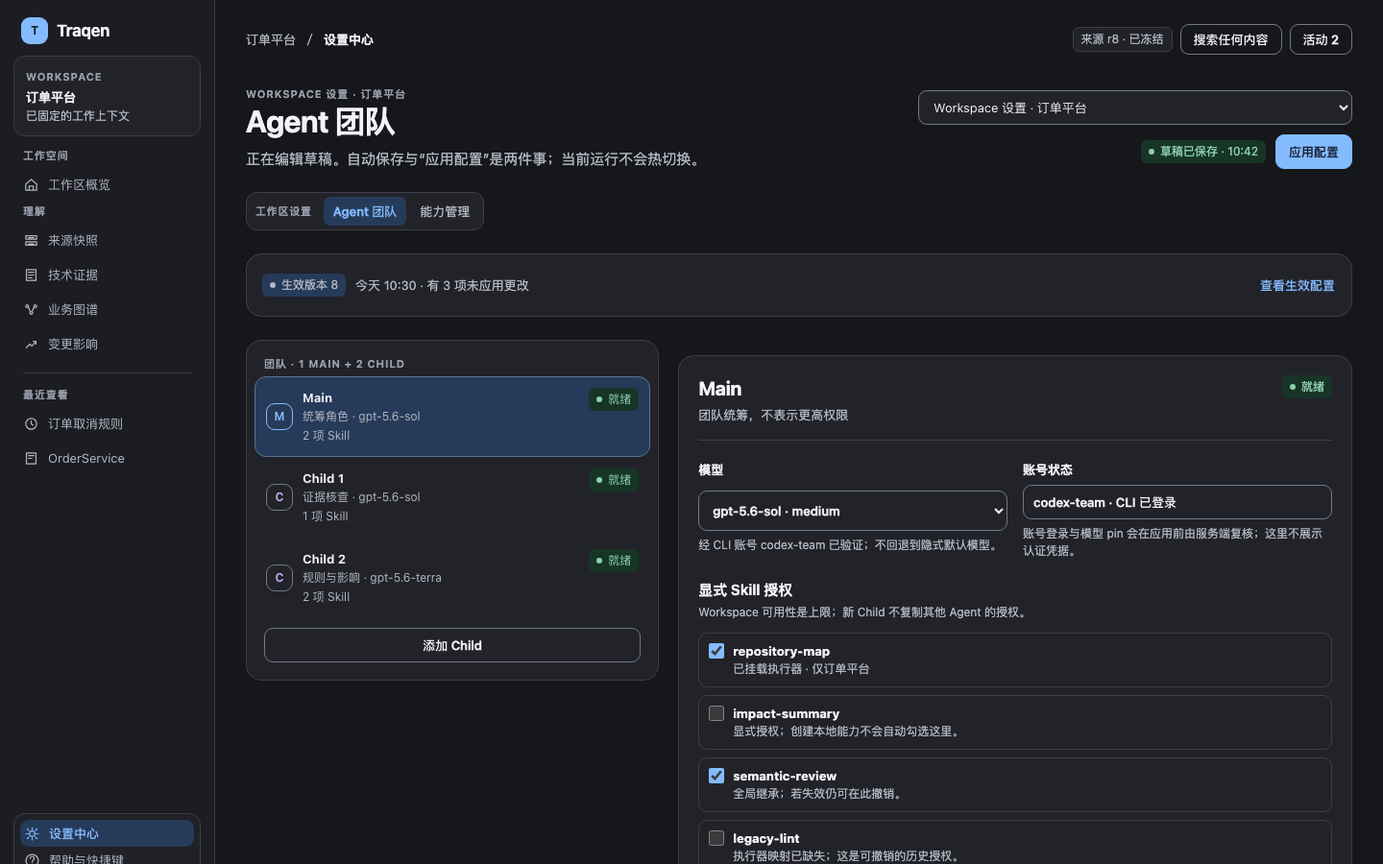
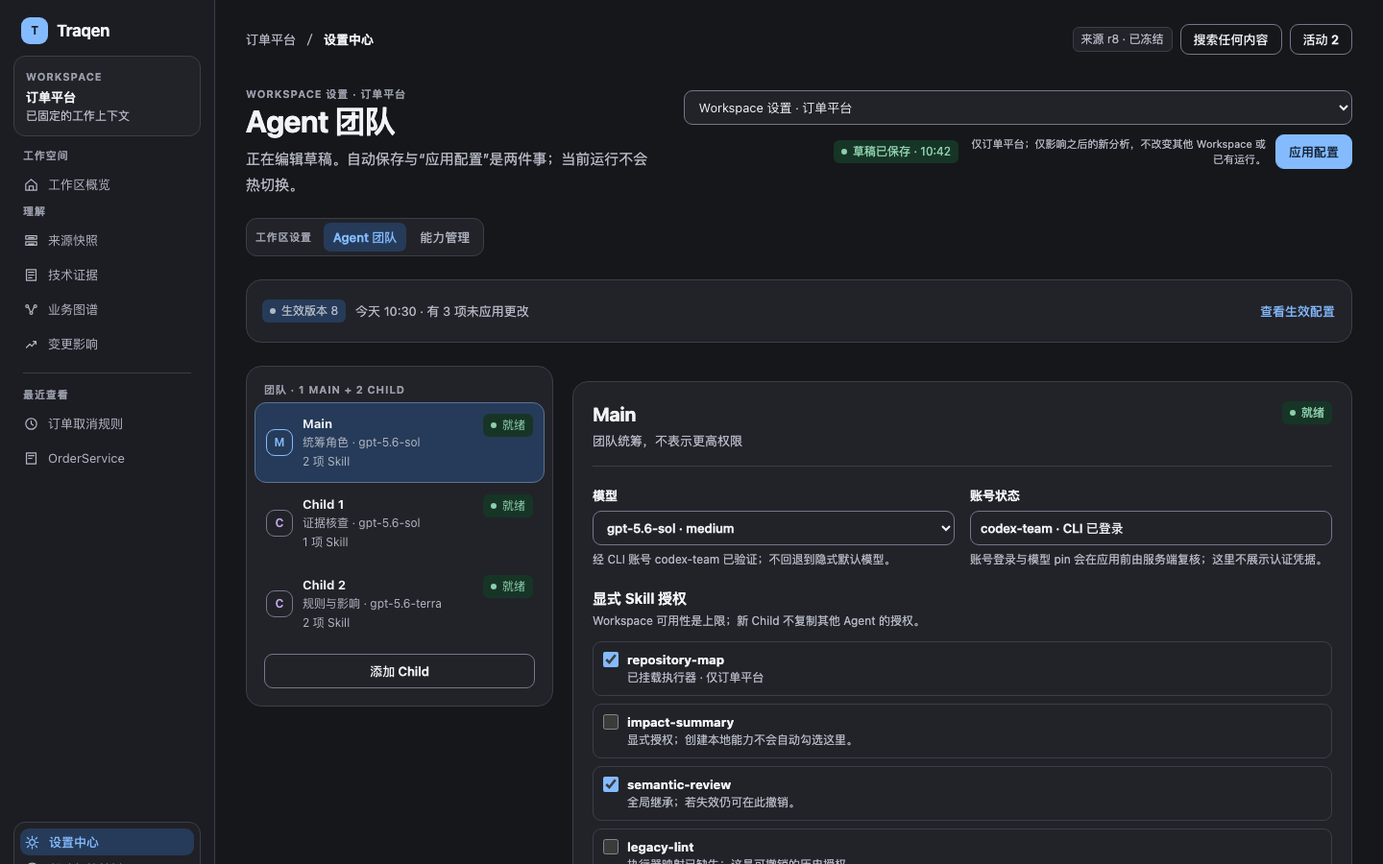
fix(f006): make desktop fixture states reachable
Why: align the review prototype with the documented team geometry, recovery, read-only-version return, and vertical reachability contracts.

diff --git a/docs/design/F006-workspace-capability-settings/ux-v1.0/assets/prototype.html b/docs/design/F006-workspace-capability-settings/ux-v1.0/assets/prototype.html
@@ -29,7 +29,7 @@
     button { cursor: pointer; }
     button:disabled { cursor: not-allowed; opacity: .54; }
     :focus-visible { outline: 3px solid var(--focus); outline-offset: 3px; }
-    #logical-stage { width: 1440px; height: 900px; margin: 0 auto; overflow: hidden; position: relative; }
+    #logical-stage { width: 1440px; min-height: 900px; height: auto; margin: 0 auto; overflow: visible; position: relative; }
     .shell { width: 1440px; min-height: 900px; display: grid; grid-template-columns: var(--sidebar) minmax(0, 1fr); transform: scale(var(--desktop-scale)); transform-origin: top left; }
     #logical-stage[data-layout-mode="accessibility"] { width: 100%; height: auto; overflow: visible; }
     #logical-stage[data-layout-mode="accessibility"] .shell { width: 100%; min-height: 100vh; transform: none; }
@@ -68,6 +68,8 @@
     .summary-row { margin-top: 24px; padding: 14px 16px; display: flex; justify-content: space-between; align-items: center; gap: 18px; border: 1px solid var(--line); border-radius: 16px; background: var(--surface); }
     .summary-row .summary-copy { display: flex; align-items: center; gap: 10px; min-width: 0; } .summary-row .summary-copy span { color: var(--muted); }
     .scope-select { min-height: 36px; border: 1px solid var(--control); border-radius: 9px; padding: 0 29px 0 11px; background: var(--surface); color: var(--text); }
+    .apply-context { display: inline-flex; align-items: center; gap: 10px; max-width: 430px; }
+    .apply-scope { max-width: 310px; color: var(--muted); font-size: 11px; line-height: 16px; text-align: right; }
     .settings-secondary { margin-top: 21px; display: flex; align-items: center; gap: 4px; padding: 4px; width: fit-content; border: 1px solid var(--line); border-radius: 11px; background: var(--surface); }
     .settings-secondary span { padding: 0 8px 0 5px; color: var(--meta); font-size: 11px; font-weight: 650; letter-spacing: .07em; text-transform: uppercase; }
     .settings-secondary button { min-height: 30px; padding: 0 10px; border: 0; border-radius: 7px; background: transparent; color: var(--muted); font-weight: 550; }
@@ -75,9 +77,9 @@
     .content { margin-top: 24px; }
     .panel { border: 1px solid var(--line); border-radius: 16px; background: var(--surface); } .panel.pad { padding: 20px; } .panel + .panel { margin-top: 16px; }
     .section-head { display: flex; align-items: center; justify-content: space-between; gap: 16px; margin-bottom: 16px; } .section-head > p { color: var(--muted); }
-    .notice { display: flex; gap: 10px; align-items: flex-start; padding: 12px 14px; border-radius: 9px; color: var(--warning); background: var(--warning-soft); } .notice strong { color: var(--text); } .notice.danger { color: var(--danger); background: var(--danger-soft); }
+    .notice { display: flex; gap: 10px; align-items: flex-start; padding: 12px 14px; border-radius: 9px; color: var(--warning); background: var(--warning-soft); } .notice strong { color: var(--text); } .notice.danger { color: var(--danger); background: var(--danger-soft); } .notice.success { color: var(--success); background: var(--success-soft); }
     .notice .dot { width: 8px; height: 8px; border-radius: 50%; flex: none; margin-top: 6px; background: currentColor; }
-    .team-grid { display: grid; grid-template-columns: minmax(286px, .76fr) minmax(0, 1.24fr); gap: 20px; align-items: start; }
+    .team-grid { display: grid; grid-template-columns: 320px minmax(0, 1fr); gap: 20px; align-items: start; }
     .agent-list { padding: 8px; } .agent-section-title { padding: 8px 10px 5px; color: var(--meta); font-size: 11px; line-height: 16px; font-weight: 650; letter-spacing: .08em; text-transform: uppercase; }
     .agent-card { width: 100%; min-height: 72px; padding: 11px; display: grid; grid-template-columns: 28px minmax(0,1fr) auto; gap: 10px; align-items: center; text-align: left; border: 1px solid transparent; border-radius: 12px; background: transparent; color: var(--text); } .agent-card:hover { background: var(--surface-2); } .agent-card.selected { border-color: color-mix(in srgb, var(--blue) 42%, var(--line)); background: var(--blue-soft); }
     .agent-icon { width: 28px; height: 28px; border: 1px solid var(--control); border-radius: 9px; display: grid; place-items: center; color: var(--purple); font-size: 12px; font-weight: 700; } .agent-card.selected .agent-icon { color: var(--blue); border-color: var(--blue); }
@@ -138,7 +140,7 @@
         empty: 'S01 · 范围与初始空态', accounts: 'S02 · 账号', models: 'S03 · 模型', skills: 'S03 · Skill', team: 'S04 · 完整团队', capabilities: 'S05 · 能力管理', conflict: 'S06 · 草稿冲突', lifecycle: 'S07 · 生命周期影响', mcp: 'S08 · MCP 暂停', versions: 'S09 · 生效版本', f003: 'S10 · F003 配置确认示意'
       };
       const saved = JSON.parse(localStorage.getItem('traqen-f006-ux-state') || '{}');
-      const state = { scene: 'team', theme: localStorage.getItem('traqen-f006-ux-theme') || 'light', selected: saved.selected || 'main', child2Model: saved.child2Model || 'gpt-5.6-terra', conflict: Boolean(saved.conflict), legacyIssue: Boolean(saved.legacyIssue), m3: saved.m3 || '', logs: [], sentinels: { mainModel: 'gpt-5.6-sol', otherWorkspace: 'billing-workspace-unchanged' } };
+      const state = { scene: 'team', theme: localStorage.getItem('traqen-f006-ux-theme') || 'light', selected: saved.selected || 'main', child2Model: saved.child2Model || 'gpt-5.6-terra', conflict: Boolean(saved.conflict), legacyIssue: Boolean(saved.legacyIssue), m3: saved.m3 || '', recovery: saved.recovery || '', logs: [], sentinels: { mainModel: 'gpt-5.6-sol', otherWorkspace: 'billing-workspace-unchanged' } };
       const agentConfigs = Object.freeze({
         main: { name: 'Main', role: '统筹角色', model: 'gpt-5.6-sol', skills: ['repository-map', 'semantic-review'], readiness: '就绪' },
         'child-1': { name: 'Child 1', role: '证据核查', model: 'gpt-5.6-sol', skills: ['repository-map'], readiness: '就绪' },
@@ -146,10 +148,11 @@
       });
       const $ = (selector, root=document) => root.querySelector(selector);
       const esc = value => String(value).replace(/[&<>"]/g, c => ({'&':'&amp;','<':'&lt;','>':'&gt;','"':'&quot;'}[c]));
-      function persist() { localStorage.setItem('traqen-f006-ux-state', JSON.stringify({ selected: state.selected, child2Model: state.child2Model, conflict: state.conflict, legacyIssue: state.legacyIssue, m3: state.m3 })); }
+      function persist() { localStorage.setItem('traqen-f006-ux-state', JSON.stringify({ selected: state.selected, child2Model: state.child2Model, conflict: state.conflict, legacyIssue: state.legacyIssue, m3: state.m3, recovery: state.recovery })); }
       function log(type, detail, write=false) { state.logs.push({ type, detail, write }); updateLog(); }
       function updateLog() { const writes = state.logs.filter(x => x.write).length; $('#fixture-log').textContent = `模拟写入证据：${writes} 次业务写入 · ${state.logs.slice(-1)[0]?.detail || '取消/主题切换均为零业务写入'}`; }
-      function applyDesktopScale() { const stage = $('#logical-stage'); const isDesktop = innerWidth >= 1440 && innerHeight >= 900; const scale = isDesktop ? Math.min(innerWidth / 1440, innerHeight / 900) : 1; stage.dataset.layoutMode = isDesktop ? 'desktop' : 'accessibility'; stage.style.width = isDesktop ? `${1440 * scale}px` : '100%'; stage.style.height = isDesktop ? `${900 * scale}px` : 'auto'; document.documentElement.style.setProperty('--desktop-scale', String(scale)); state.desktopLayout = { canvas: { width: 1440, height: 900 }, viewport: { width: innerWidth, height: innerHeight }, scale, mode: isDesktop ? 'desktop' : 'accessibility', margin: isDesktop ? { x: (innerWidth - 1440 * scale) / 2, y: 0 } : { x: 0, y: 0 }, browserZoom: visualViewport?.scale || 1, deviceScaleFactor: devicePixelRatio }; }
+      function applyDesktopScale() { const stage = $('#logical-stage'); const isDesktop = innerWidth >= 1440 && innerHeight >= 900; const scale = isDesktop ? Math.min(innerWidth / 1440, innerHeight / 900) : 1; stage.dataset.layoutMode = isDesktop ? 'desktop' : 'accessibility'; stage.style.width = isDesktop ? `${1440 * scale}px` : '100%'; stage.style.height = 'auto'; document.documentElement.style.setProperty('--desktop-scale', String(scale)); state.desktopLayout = { canvas: { width: 1440, height: 900 }, viewport: { width: innerWidth, height: innerHeight }, scale, mode: isDesktop ? 'desktop' : 'accessibility', margin: isDesktop ? { x: (innerWidth - 1440 * scale) / 2, y: 0 } : { x: 0, y: 0 }, browserZoom: visualViewport?.scale || 1, deviceScaleFactor: devicePixelRatio }; }
+      function syncDesktopStageHeight() { const stage = $('#logical-stage'); const shell = $('.shell'); if (state.desktopLayout.mode !== 'desktop') { stage.style.height = 'auto'; return; } stage.style.height = `${Math.ceil(shell.scrollHeight * state.desktopLayout.scale)}px`; }
       function applyTheme(theme) { state.theme = theme; localStorage.setItem('traqen-f006-ux-theme', theme); document.documentElement.dataset.theme = theme; document.querySelectorAll('[data-theme-choice]').forEach(button => button.setAttribute('aria-pressed', String(button.dataset.themeChoice === theme))); log('presentation', `切换至${theme === 'light' ? '瓷白' : '石墨'}主题`, false); }
       function head(kicker, title, description, action='') { return `<header class="page-head"><div><p class="eyebrow">${kicker}</p><h1>${title}</h1><p>${description}</p></div><div class="head-actions">${action}</div></header>`; }
       function pill(kind, text) { return `<span class="badge ${kind}">${text}</span>`; }
@@ -159,17 +162,18 @@
       function workspaceSettingsNav(active) { return `<nav class="settings-secondary" data-testid="workspace-settings-nav" aria-label="Workspace 设置导航"><span>工作区设置</span><button type="button" class="${active === 'team' ? 'active':''}" data-scene="team" ${active === 'team' ? 'aria-current="page"':''}>Agent 团队</button><button type="button" class="${active === 'capabilities' ? 'active':''}" data-scene="capabilities" ${active === 'capabilities' ? 'aria-current="page"':''}>能力管理</button></nav>`; }
       function teamCards() { return `<section class="panel agent-list"><div class="agent-section-title">团队 · 1 Main + 2 Child</div>${Object.entries(agentConfigs).map(([id, base]) => { const agent = agentConfig(id); const kind = agent.readiness === '就绪' ? 'success' : 'warning'; return `<button class="agent-card ${state.selected === id ? 'selected':''}" data-agent="${id}" data-skill-count="${agent.skills.length}" ${id === 'child-2' ? 'data-testid="agent-child-2"':''}><span class="agent-icon">${id === 'main'?'M':'C'}</span><span><b>${agent.name}</b><small>${agent.role} · ${agent.model}</small><small>${agent.skills.length} 项 Skill</small></span>${pill(kind, agent.readiness)}</button>`; }).join('')}<button class="btn" style="margin:10px;width:calc(100% - 20px)">添加 Child</button></section>`; }
       function inspector() { const agent = agentConfig(); const isChild2 = state.selected === 'child-2'; const hasLegacyIssue = state.selected === 'child-1' && state.legacyIssue; const skillDescription = { 'repository-map': ['已挂载执行器 · 仅订单平台', 'Workspace 可用性是上限，不会自动配给其他 Agent。'], 'impact-summary': ['显式授权；创建本地能力不会自动勾选这里。', '本地能力可用不等于任何 Agent 已获授权。'], 'semantic-review': ['全局继承；若失效仍可在此撤销。', '生命周期变更会在这里标记为需要处理。'], 'legacy-lint': ['执行器映射已缺失；这是可撤销的历史授权。', '撤销只会修改 Child 1 的草稿授权。'] }; return `<section class="panel detail" aria-label="${agent.name} 配置详情"><div class="detail-head"><div><h2>${agent.name}</h2><p>${isChild2 ? '规则与影响的并行分析角色' : state.selected === 'main' ? '团队统筹，不表示更高权限' : '证据核查的并行分析角色'}</p></div>${pill(agent.readiness === '就绪' ? 'success':'warning', agent.readiness)}</div>${hasLegacyIssue ? `<div class="notice danger" data-testid="legacy-authorization" style="margin-top:16px"><span class="dot"></span><div><strong>legacy-lint 授权需要处理</strong><br>该执行器映射已不可用；历史授权仍在 Child 1 草稿中，必须在此明确撤销或替换。</div><button class="btn danger" id="revoke-legacy" style="margin-left:auto">撤销授权</button></div>` : ''}<div class="fields"><label>模型 <select id="agent-model" data-testid="agent-model"><option ${agent.model === 'gpt-5.6-sol'?'selected':''}>gpt-5.6-sol · medium</option><option ${agent.model === 'gpt-5.6-terra'?'selected':''}>gpt-5.6-terra · high</option></select><span>经 CLI 账号 codex-team 已验证；不回退到隐式默认模型。</span></label><label>账号状态 <input value="codex-team · CLI 已登录" readonly><span>账号登录与模型 pin 会在应用前由服务端复核；这里不展示认证凭据。</span></label></div><div class="grant-block"><h3>显式 Skill 授权</h3><p>Workspace 可用性是上限；新 Child 不复制其他 Agent 的授权。</p><div class="grant-list">${['repository-map','impact-summary','semantic-review','legacy-lint'].map(skill => `<label class="check-row"><input type="checkbox" ${agent.skills.includes(skill) ? 'checked':''}><span><b>${skill}</b><br>${skillDescription[skill][0]}</span></label>`).join('')}</div></div></section>`; }
-      function team() { return `${head('Workspace 设置 · 订单平台', 'Agent 团队', '正在编辑草稿。自动保存与“应用配置”是两件事；当前运行不会热切换。', `${scope()}${pill('success','草稿已保存 · 10:42').replace('class="badge success"', 'class="badge success" data-testid="draft-saved"')}<button class="btn primary" id="apply" data-testid="apply-config">应用配置</button>`)}${workspaceSettingsNav('team')}<div class="summary-row"><div class="summary-copy">${pill('blue','生效版本 8')}<span>今天 10:30 · 有 3 项未应用更改</span></div><button class="btn link">查看生效配置</button></div><section class="content team-grid">${teamCards()}${inspector()}</section>`; }
+      function recoveryNotice() { if (!state.recovery) return ''; const server = state.recovery === 'server'; return `<div class="notice success" data-testid="recovery-success" style="margin-top:16px"><span class="dot"></span><div><strong>${server ? '已采用服务器草稿，可以继续编辑并应用' : '草稿已恢复，可以继续编辑并应用'}</strong><br>${server ? '未保存的本地 M3 说明已按你的选择丢弃；没有新增业务写入。' : 'M2 已确认，M3 已恰好补存一次；当前运行和已生效版本未改变。'}</div></div>`; }
+      function team() { return `${head('Workspace 设置 · 订单平台', 'Agent 团队', '正在编辑草稿。自动保存与“应用配置”是两件事；当前运行不会热切换。', `${scope()}${pill('success','草稿已保存 · 10:42').replace('class="badge success"', 'class="badge success" data-testid="draft-saved"')}<span class="apply-context"><span class="apply-scope" data-testid="apply-scope">仅订单平台；仅影响之后的新分析，不改变其他 Workspace 或已有运行。</span><button class="btn primary" id="apply" data-testid="apply-config">应用配置</button></span>`)}${workspaceSettingsNav('team')}${recoveryNotice()}<div class="summary-row"><div class="summary-copy">${pill('blue','生效版本 8')}<span>今天 10:30 · 有 3 项未应用更改</span></div><button class="btn link" data-scene="versions" data-testid="versions-entry">查看生效配置</button></div><section class="content team-grid">${teamCards()}${inspector()}</section>`; }
       function empty() { const placeholder = (id, name, role, detail) => `<button class="agent-card ${id === 'main' ? 'selected':''}" data-testid="empty-${id}"><span class="agent-icon">${id === 'main'?'M':'C'}</span><span><b>${name}</b><small>${role}</small><small>尚未选择模型 · 0 项 Skill</small></span>${pill('warning','需要配置')}</button>`; return `${head('Workspace 设置 · 订单平台', 'Agent 团队', '先在实际团队配置中为 Main 与至少一个 Child 选择模型；不会静默填入默认值。', `${scope()}${pill('warning','不能应用配置')}`)}${workspaceSettingsNav('team')}<div class="summary-row"><div class="summary-copy">${pill('blue','草稿已保存')}<span>初始草稿 · 尚未创建可运行版本</span></div><button class="btn link" data-scene="models">前往模型</button></div><section class="content team-grid"><section class="panel agent-list"><div class="agent-section-title">团队 · 1 Main + 1 Child（最小结构）</div>${placeholder('main','Main','统筹角色','')} ${placeholder('child-1','Child 1','证据核查','')}<button class="btn" style="margin:10px;width:calc(100% - 20px)">添加 Child</button></section><section class="panel detail" aria-label="初始 Agent 配置"><div class="detail-head"><div><h2>Main 尚未完成配置</h2><p>从实际账号与模型中选择；Child 的授权不会由 Main 自动复制。</p></div>${pill('warning','需要模型')}</div><div class="fields"><label>模型 <select disabled><option>先在模型页添加并验证</option></select><span>未选择模型，不会回退到隐式默认值。</span></label><label>账号状态 <input value="尚未选择账号" readonly><span>保存引用与 CLI 检查分开。</span></label></div><div class="grant-block"><h3>显式 Skill 授权</h3><p>等待模型配置完成后再逐项选择；当前为 0 项。</p></div><div class="notice" style="margin-top:20px"><span class="dot"></span><div><strong>应用配置仍不可用</strong><br>先完成 Main 和至少一个 Child 的模型配置。草稿可以保存，但不会创建运行。</div></div></section></section>`; }
       function accounts() { return `${head('全局设置', '账号', '保存的是认证引用与 CLI 状态摘要；不显示密钥，也不在 Traqen 内发起 OAuth 登录。', scope('global'))}${globalSettingsNav('accounts')}<section class="content form-grid"><div class="panel pad"><div class="section-head"><h2>添加 API Key 引用</h2>${pill('blue','全局资产')}</div><div class="form-stack"><label>账号名称 <input value="OpenAI 团队账号"></label><label>Secret 引用 <input value="env://OPENAI_API_KEY" aria-invalid="true"><span class="error-text">未发现该环境变量；引用已保留，未显示密钥值。</span></label><p class="field-help">仅支持 <code>env://VARIABLE_NAME</code>；保存引用与连接检查分开。</p><button class="btn primary">保存引用</button></div></div><div class="panel pad"><div class="section-head"><h2>OAuth 状态</h2>${pill('warning','需要处理')}</div><div class="timeline"><div class="event"><i></i><div><b>Claude CLI</b><p>等待 CLI 登录。请在受支持的 CLI 完成登录后回到这里检查。</p></div></div><div class="event"><i></i><div><b>Codex CLI</b><p>检查失败 · 找不到本地 CLI。重试不会改变认证状态。</p></div></div></div><button class="btn" style="margin-top:16px">重新检查</button></div></section>`; }
       function models() { return `${head('全局设置', 'CLI 模型', '只允许受支持的 CLI 执行；账号、模型 pin 和就绪性不足时不能进入 Agent 选择器。', scope('global'))}${globalSettingsNav('models')}<section class="content panel pad"><div class="section-head"><h2>模型目录</h2><button class="btn">添加模型</button></div><table class="table"><thead><tr><th>名称</th><th>CLI / 模型</th><th>状态</th></tr></thead><tbody><tr><td><b>订单分析</b><small>codex-team</small></td><td>Codex · gpt-5.6-sol<br><small>medium</small></td><td>${pill('success','READY')}</td></tr><tr><td><b>规则核查</b><small>claude-team</small></td><td>Claude · 未固定模型<br><small>模型 pin 缺失</small></td><td>${pill('warning','需要处理')}</td></tr></tbody></table><div class="notice danger" style="margin-top:15px"><span class="dot"></span><div><strong>验证失败</strong><br>“规则核查”保留在目录中，不会悄悄清空或替换当前选择。</div></div></section>`; }
       function skills() { return `${head('全局设置', 'Skill', 'Skill 是独立的全局资产；新增时只能选择实际挂载的执行器，不能直接形成 Agent 授权。', scope('global'))}${globalSettingsNav('skills')}<section class="content form-grid"><section class="panel pad"><div class="section-head"><h2>Skill 执行器</h2>${pill('purple','服务端映射')}</div><p class="subtle">能力名称、执行器映射和验证状态都在此管理；团队页只选择已可用的 Skill。</p><div class="grant-list"><label>能力名称 <input value="semantic-review"></label><label>已挂载执行器 <select><option>semantic-reviewer · v3.2</option></select><span>映射与验证结果由服务端生成。</span></label><label class="check-row"><input type="checkbox"><span><b>我已核对执行器</b><br>只是创建前确认；不替代服务器验证。</span></label></div><button class="btn primary" style="margin-top:16px">添加 Skill</button></section><section class="panel pad"><div class="section-head"><h2>已挂载 Skill</h2>${pill('success','2 可用')}</div><div class="timeline"><div class="event"><i></i><div><b>repository-map</b><p>映射有效 · 可在 Workspace 范围内授权。</p></div></div><div class="event"><i></i><div><b>semantic-review</b><p>semantic-reviewer v3.2 · 由团队显式授权。</p></div></div></div></section></section>`; }
       function capabilities() { const card = (title,count,body) => `<section class="panel group-card"><h3>${title}<span>${count}</span></h3>${body}</section>`; return `${head('Workspace 设置 · 订单平台', '能力管理', '四组可用范围与每个 Agent 的显式授权分开管理。', `${scope()}<button class="btn primary">应用配置</button>`)}${workspaceSettingsNav('capabilities')}<section class="content"><div class="quad">${card('继承且可用','2',`<div class="cap-row"><b>repository-map</b><p>全局启用 · Workspace 未禁用</p><button class="btn link inline">在此 Workspace 禁用</button></div><div class="cap-row"><b>semantic-review</b><p>全局启用 · 已授权给 Child 2</p></div>`)}${card('本 Workspace 已禁用','1',`<div class="cap-row"><b>release-notes</b><p>恢复只改变可用范围，不自动恢复 Agent 授权。</p><button class="btn link inline">恢复继承</button></div>`)}${card('全局不可用','1',`<div class="cap-row"><b>legacy-lint</b><p>执行器映射缺失 · Child 1 的历史授权需要在团队详情中明确处理。</p><button class="btn link inline" data-action="open-legacy-issue">前往 Child 1 处理授权</button></div>`)}${card('Workspace 本地','1',`<div class="cap-row"><b>order-language</b><p>仅订单平台 · 已挂载执行器</p><button class="btn link inline">编辑本地 Skill</button></div><button class="btn" style="margin-top:14px">添加本地 Skill</button>`)}</div></section>`; }
-      function conflictInspector() { return `<section class="panel detail" aria-label="Child 2 草稿恢复"><div class="detail-head"><div><h2>Child 2</h2><p>规则与影响的并行分析角色</p></div>${pill('warning','草稿需要处理')}</div><div class="notice danger" style="margin-top:16px"><span class="dot"></span><div><strong>此草稿基于较早的保存状态</strong><br>已保留你的模型选择和说明。恢复前不会自动覆盖服务器上的更新，也不会把当前草稿应用到运行。</div></div><div class="fields"><label>模型 <select id="m2-model"><option>gpt-5.6-terra · high</option></select><span>保留你的未应用选择，等待恢复完成。</span></label><label>保留的说明 <input id="m3-note" value="${esc(state.m3)}" placeholder="继续编辑说明，不会立即保存"><span>这里的编辑仍留在本地，直到你确认恢复。</span></label></div><div class="grant-block"><h3>恢复草稿</h3><p>先确认冲突前的保存版本，再补存你随后增加的说明；系统不会循环重试。</p><div style="margin-top:12px"><button class="btn primary" id="conflict-retry" data-testid="conflict-retry">重新保存草稿</button><button class="btn" id="conflict-server" style="margin-left:8px">查看服务器草稿</button></div></div></section>`; }
+      function conflictInspector() { return `<section class="panel detail" aria-label="Child 2 草稿恢复"><div class="detail-head"><div><h2>Child 2</h2><p>规则与影响的并行分析角色</p></div>${pill('warning','草稿需要处理')}</div><div class="notice danger" style="margin-top:16px"><span class="dot"></span><div><strong>此草稿基于较早的保存状态</strong><br>已保留你的模型选择和说明。恢复前不会自动覆盖服务器上的更新，也不会把当前草稿应用到运行。</div></div><div class="fields"><label>模型 <select id="m2-model"><option>gpt-5.6-terra · high</option></select><span>保留你的未应用选择，等待恢复完成。</span></label><label>保留的说明 <input id="m3-note" value="${esc(state.m3)}" placeholder="继续编辑说明，不会立即保存"><span>这里的编辑仍留在本地，直到你确认恢复。</span></label></div><div class="grant-block"><h3>恢复草稿</h3><p>先确认冲突前的保存版本，再补存你随后增加的说明；系统不会循环重试。</p><div style="margin-top:12px"><button class="btn primary" id="conflict-retry" data-testid="conflict-retry">重新保存草稿</button><button class="btn" id="conflict-server" data-testid="conflict-server" style="margin-left:8px">采用服务器草稿（丢弃未保存本地编辑）</button></div></div></section>`; }
       function conflict() { return `${head('Workspace 设置 · 订单平台', 'Agent 团队', '一个已保存草稿需要恢复。保留你的更改并选择恢复方式；当前运行和生效配置不会热切换。', `${scope()}${pill('warning','草稿需要处理')}<button class="btn primary" disabled data-testid="conflict-apply">应用配置</button>`)}${workspaceSettingsNav('team')}<div class="summary-row"><div class="summary-copy">${pill('blue','生效版本 8')}<span>草稿待恢复后才能应用；当前 Active 与运行不变</span></div><button class="btn link" data-scene="versions">查看生效配置</button></div><section class="content team-grid">${teamCards()}${conflictInspector()}</section>`; }
       function lifecycle() { return `${head('全局设置', '能力生命周期', '停用或删除前先取得当前影响；取消不会写入，完成后历史版本不被篡改。', scope('global'))}<section class="content panel pad"><div class="section-head"><div><h2>semantic-review</h2><p class="subtle">Skill · 已挂载执行器 semantic-reviewer v3.2</p></div>${pill('success','ACTIVE')}</div><div class="versions"><div><div class="notice"><span class="dot"></span><div><strong>将影响 2 个 Workspace / 3 项授权</strong><br>服务端影响清单成功加载后才允许继续；名称确认是对当前对象的确认，不是通用确认。</div></div><table class="table" style="margin-top:16px"><thead><tr><th>Workspace</th><th>Agent</th><th>现状</th></tr></thead><tbody><tr><td>订单平台</td><td>Child 2</td><td>授权有效</td></tr><tr><td>客户运营</td><td>Main / Child 1</td><td>授权有效</td></tr></tbody></table></div><div class="panel pad"><h3>生命周期操作</h3><p class="subtle" style="margin-top:5px">停用后，受影响团队显示“需要处理”，仍可撤销失效授权。</p><button class="btn danger" id="open-lifecycle" style="margin-top:17px">停用能力</button><p class="field-help" style="margin-top:16px">焦点会在取消后回到这一行的原操作。</p></div></div></section>`; }
       function mcp() { return `${head('全局设置', 'MCP', 'MCP 接入暂不推进。历史配置仅供查看，不代表当前可执行能力。', scope('global'))}${globalSettingsNav('mcp')}<section class="content panel pad" data-testid="mcp-paused"><div class="section-head"><div><h2>MCP 已暂停</h2><p class="subtle">本期没有创建、导入、检测、连接、激活或新增授权入口。</p></div>${pill('warning','已暂停')}</div><div class="notice"><span class="dot"></span><div><strong>不显示 READY 或“已连接”</strong><br>受限与不支持不是加载中；不能让历史记录暗示当前可以执行。</div></div><table class="table" style="margin-top:18px"><thead><tr><th>历史引用</th><th>范围</th><th>状态</th><th></th></tr></thead><tbody><tr><td><b>search</b><small>MCP 历史身份保留</small></td><td>订单平台 · Child 1</td><td>${pill('warning','只读 / 暂停')}</td><td class="row-actions"><button class="btn" data-scene="team">到团队移除授权</button></td></tr></tbody></table></section>`; }
-      function versions() { return `${head('Workspace 设置 · 订单平台', '当前生效配置', '草稿已保存不等于已应用；每次运行固定读取创建时的版本。', `${scope()}<button class="btn link" data-scene="team">返回团队编辑</button>`)}${workspaceSettingsNav('team')}<section class="content versions"><section class="panel pad"><div class="section-head"><div><span class="eyebrow">当前生效</span><div class="version-number">版本 8</div><p class="subtle">今天 10:30 · cfg_01HX…9M</p></div>${pill('success','已生效')}</div><div class="key-value"><span>Main</span><b>gpt-5.6-sol · 2 项 Skill</b></div><div class="key-value"><span>Child 1</span><b>gpt-5.6-sol · 1 项 Skill</b></div><div class="key-value"><span>Child 2</span><b>gpt-5.6-sol · 1 项 Skill</b></div><div class="notice" style="margin-top:16px"><span class="dot"></span><div><strong>仅影响之后的新分析</strong><br>运行 RUN-049 继续固定使用版本 7；刷新和恢复不会换成当前 Active。</div></div></section><aside class="panel pad"><h2>草稿</h2><p class="subtle" style="margin-top:5px">已保存 · 3 项待应用更改</p><div class="timeline"><div class="event"><i></i><div><b>Child 2 模型</b><p>gpt-5.6-sol → gpt-5.6-terra</p></div></div><div class="event"><i></i><div><b>Skill 授权</b><p>新增 impact-summary；草稿合计 2 项 Skill</p></div></div></div><p class="field-help" style="margin-top:16px">这是只读版本对照。若要应用草稿，请返回团队编辑页。</p><button class="btn primary" data-scene="team" style="margin-top:12px">返回团队编辑</button></aside></section>`; }
+      function versions() { return `${head('Workspace 设置 · 订单平台', '当前生效配置', '草稿已保存不等于已应用；每次运行固定读取创建时的版本。', `${scope()}<button class="btn link" data-scene="team" data-testid="versions-return">返回团队编辑</button>`)}${workspaceSettingsNav('team')}<section class="content versions"><section class="panel pad"><div class="section-head"><div><span class="eyebrow">当前生效</span><div class="version-number">版本 8</div><p class="subtle">今天 10:30 · cfg_01HX…9M</p></div>${pill('success','已生效')}</div><div class="key-value"><span>Main</span><b>gpt-5.6-sol · 2 项 Skill</b></div><div class="key-value"><span>Child 1</span><b>gpt-5.6-sol · 1 项 Skill</b></div><div class="key-value"><span>Child 2</span><b>gpt-5.6-sol · 1 项 Skill</b></div><div class="notice" style="margin-top:16px"><span class="dot"></span><div><strong>仅影响之后的新分析</strong><br>运行 RUN-049 继续固定使用版本 7；刷新和恢复不会换成当前 Active。</div></div></section><aside class="panel pad"><h2>草稿</h2><p class="subtle" style="margin-top:5px">已保存 · 3 项待应用更改</p><div class="timeline"><div class="event"><i></i><div><b>Child 2 模型</b><p>gpt-5.6-sol → gpt-5.6-terra</p></div></div><div class="event"><i></i><div><b>Skill 授权</b><p>新增 impact-summary；草稿合计 2 项 Skill</p></div></div></div><p class="field-help" style="margin-top:16px">这是只读版本对照。若要应用草稿，请返回团队编辑页。</p><button class="btn primary" data-scene="team" data-testid="versions-return" style="margin-top:12px">返回团队编辑</button></aside></section>`; }
       function f003() { return `${head('F003 · 分析准备', '确认将使用的 F006 生效配置', '这是跨 Feature 交互示意：真实材料绑定、启动 API 与持久确认机制尚未接线。', '<button class="btn primary" id="f003-confirm">确认配置并继续</button>')}<section class="content f003-grid"><section class="panel pad"><div class="section-head"><div><h2>订单取消规则的调查准备</h2><p class="subtle">首次使用或配置版本变化时，要求人工确认。</p></div>${pill('blue','版本 8')}</div><div class="checklist"><div><i>✓</i><span><b>Main · gpt-5.6-sol</b><br><span class="subtle">已固定给本次准备摘要；不是实时目录。</span></span></div><div><i>✓</i><span><b>Child 1 / Child 2</b><br><span class="subtle">模型与能力数量可见，敏感认证内容不展开。</span></span></div><div><i>✓</i><span><b>账号就绪性</b><br><span class="subtle">服务端应在真实启动前再次校验，原型不声称检查通过。</span></span></div></div></section><aside class="panel pad" data-testid="f003-fixture-only"><span class="badge warning">明确限制</span><h2 style="margin-top:12px">不是 AC-C2 完成声明</h2><p class="subtle" style="margin-top:7px">这个示意不会读取新材料、不会复活 F001 的旧入口、不会创建 Run，也不能证明 F003 接线已完成。</p><button class="btn" id="simulate-head-conflict" style="margin-top:16px">示意：配置 Head 已变化</button></aside></section>`; }
       function content() { return ({empty, accounts, models, skills, team, capabilities, conflict, lifecycle, mcp, versions, f003}[state.scene] || team)(); }
       function bind() {
@@ -177,8 +181,8 @@
         document.querySelectorAll('[data-scene]').forEach(button => button.addEventListener('click', () => navigate(button.dataset.scene)));
         $('#agent-model')?.addEventListener('change', event => { if (state.selected === 'child-2') { state.child2Model = event.target.value.split(' · ')[0]; persist(); log('draft-save', 'Child 2 仅改变自己的草稿；Main 与其他 Workspace sentinel 未变', true); render(); } });
         $('#m3-note')?.addEventListener('input', event => { state.m3 = event.target.value; persist(); log('local-edit', 'M3 在 409 横幅期间保留为本地编辑，零额外写入', false); });
-        $('#conflict-retry')?.addEventListener('click', () => { log('draft-save', 'M2 冻结快照 → 200 已确认', true); log('draft-save', 'M3 更晚编辑 → 200 恰好补存一次', true); state.conflict = false; persist(); render(); });
-        $('#conflict-server')?.addEventListener('click', () => { log('recovery', '采用服务器草稿；取消本地未持久编辑，不产生业务写入', false); state.m3 = ''; persist(); render(); });
+        $('#conflict-retry')?.addEventListener('click', () => { log('draft-save', 'M2 冻结快照 → 200 已确认', true); log('draft-save', 'M3 更晚编辑 → 200 恰好补存一次', true); state.conflict = false; state.recovery = 'retry'; persist(); navigate('team'); });
+        $('#conflict-server')?.addEventListener('click', () => { log('recovery', '采用服务器草稿；已按确认丢弃未保存本地 M3 编辑，不产生业务写入', false); state.m3 = ''; state.conflict = false; state.recovery = 'server'; persist(); navigate('team'); });
         $('[data-action=open-legacy-issue]')?.addEventListener('click', () => { state.legacyIssue = true; state.selected = 'child-1'; persist(); navigate('team'); });
         $('#revoke-legacy')?.addEventListener('click', () => { state.legacyIssue = false; log('draft-save', 'Child 1 撤销 legacy-lint 历史授权（仅演示）', true); persist(); render(); });
         $('#open-lifecycle')?.addEventListener('click', event => { state.lifecycleInvoker = event.currentTarget; $('#lifecycle-dialog').showModal(); $('#confirm-name').focus(); });
@@ -186,8 +190,8 @@
         $('#simulate-head-conflict')?.addEventListener('click', () => { log('f003-fixture', '只切换示意状态；没有创建 Run', false); alert('配置 Head 已变化：保留调查输入，刷新摘要后重新确认。'); });
         $('#apply')?.addEventListener('click', () => log('activation', '团队草稿 → 新版本（仅演示）', true));
       }
-      function render() { applyDesktopScale(); $('#app').innerHTML = content(); $('#scene-select').value = state.scene; bind(); updateLog(); }
-      function navigate(scene) { state.scene = scenes[scene] ? scene : 'team'; if (state.scene === 'conflict' && !state.conflictStarted) { state.conflictStarted = true; state.conflict = true; persist(); log('draft-save', 'M2 冻结快照 → 409 冲突', true); } history.replaceState(null, '', `#${state.scene}`); render(); }
+      function render() { applyDesktopScale(); $('#app').innerHTML = content(); $('#scene-select').value = state.scene; bind(); syncDesktopStageHeight(); updateLog(); }
+      function navigate(scene) { const previous = state.scene; const returningFromVersions = previous === 'versions' && scene === 'team'; if (previous === 'team' && scene === 'versions') state.teamScroll = scrollY; state.scene = scenes[scene] ? scene : 'team'; if (state.scene === 'conflict' && !state.conflict) { state.conflict = true; state.recovery = ''; persist(); log('draft-save', 'M2 冻结快照 → 409 冲突', true); } history.replaceState(null, '', `#${state.scene}`); render(); if (returningFromVersions) { const restoreScroll = state.teamScroll || 0; requestAnimationFrame(() => requestAnimationFrame(() => scrollTo(0, restoreScroll))); } }
       Object.entries(scenes).forEach(([key, label]) => $('#scene-select').insertAdjacentHTML('beforeend', `<option value="${key}">${label}</option>`));
       $('#scene-select').addEventListener('change', event => navigate(event.target.value));
       document.querySelectorAll('[data-theme-choice]').forEach(button => button.addEventListener('click', () => applyTheme(button.dataset.themeChoice)));
@@ -198,7 +202,7 @@
       $('#lifecycle-dialog').addEventListener('cancel', () => { log('lifecycle-cancel', 'Escape 关闭影响确认，零业务写入', false); setTimeout(() => $('#open-lifecycle')?.focus(), 0); });
       window.addEventListener('hashchange', () => navigate(location.hash.slice(1)));
       window.__f006UX = { state, scenes, navigate, applyTheme, applyDesktopScale, log, resetLogs: () => { state.logs = []; updateLog(); }, getWriteCount: () => state.logs.filter(x => x.write).length, getBusinessLog: () => state.logs.filter(x => x.write), sentinels: state.sentinels };
-      addEventListener('resize', applyDesktopScale);
+      addEventListener('resize', () => { applyDesktopScale(); syncDesktopStageHeight(); });
       addEventListener('scroll', () => sessionStorage.setItem('traqen-f006-ux-scroll', String(scrollY)), { passive: true });
       applyTheme(state.theme); navigate(location.hash.slice(1) || 'team');
       requestAnimationFrame(() => scrollTo(0, Number(sessionStorage.getItem('traqen-f006-ux-scroll') || 0)));

diff --git a/docs/design/F006-workspace-capability-settings/ux-v1.0/README.md b/docs/design/F006-workspace-capability-settings/ux-v1.0/README.md
@@ -49,7 +49,7 @@ source_design: ../README.md
 | S01 范围与初始空态 | [真实团队配置面内的 Main + Child 1 空占位](assets/previews/01-empty-light.png) | 瓷白 · 1440×900 |
 | S02 账号 | [瓷白：API 引用错误保留、OAuth 状态](assets/previews/02-accounts-light.png) / [石墨](assets/previews/02-accounts-dark.png) | 双主题 · 1440×900 |
 | S03 模型与 Skill | [模型 · 瓷白](assets/previews/03-models-light.png) / [石墨](assets/previews/03-models-dark.png)；[Skill · 瓷白](assets/previews/03-skills-light.png) / [石墨](assets/previews/03-skills-dark.png) | 两个独立页面，均为双主题 · 1440×900 |
-| S04 完整团队 | 上方四张主图；另有 1400×860 与 [1280×800](assets/previews/16-team-compact-light.png) 的 1×可读性检查，以及 [1920×1080](assets/previews/17-team-external-dark.png) 的 1.2×画布检查 | 双主题 · 一个逻辑画布、4 个导出视口 |
+| S04 完整团队 | 上方四张主图；另有 [瓷白](assets/previews/18-team-laptop-bottom-light.png) / [石墨](assets/previews/19-team-laptop-bottom-dark.png) 的滚动到底部证据，1400×860 与 [1280×800](assets/previews/16-team-compact-light.png) 的 1×可读性检查，以及 [1920×1080](assets/previews/17-team-external-dark.png) 的 1.2×画布检查 | 双主题 · 一个逻辑画布、滚动与 4 个导出视口 |
 | S05 能力管理 | [四分组与范围](assets/previews/08-capabilities-light.png)；[Child 1 详情内可撤销的 legacy-lint 历史授权](assets/previews/08-legacy-authorization-light.png) | 瓷白 · 1440×900 |
 | S06 草稿冲突 | [团队详情内的恢复状态](assets/previews/09-conflict-light.png) / [石墨对照](assets/previews/10-conflict-dark.png)；技术写入证据仅在壳外 fixture 日志与验证记录中 | 双主题 · 1440×900 |
 | S07 生命周期 | [已打开的名称确认弹窗 · 瓷白](assets/previews/11-lifecycle-confirm-light.png) / [石墨](assets/previews/12-lifecycle-confirm-dark.png) | 双主题 · 1440×900 |
@@ -63,21 +63,22 @@ source_design: ../README.md
 
 `prototype.html` 的场景选择器、主题切换、Agent 选择、Child 2 模型编辑、409 恢复、生命周期确认/取消和 F003 提示均可操作。调试控制显式标注“设计演示数据”，位于产品壳外。
 
-`render.mjs` 用一次性 loopback 静态服务器和临时 headless Chrome profile 生成图片，并写入 [verification.json](assets/verification.json)。本次作者验证结果：23 张截图、0 个浏览器页面错误，以及以下 13 项通过项：
+`render.mjs` 用一次性 loopback 静态服务器和临时 headless Chrome profile 生成图片，并写入 [verification.json](assets/verification.json)。本次作者验证结果：25 张截图、0 个浏览器页面错误，以及以下 14 项通过项：
 
 1. S01–S10 渲染时都有一个页面 h1，页面与控件没有横向溢出。
 2. S04 使用一个 1440×900 逻辑画布：1440×900 为 1×，1920×1080 为 1.2×且左右余量 96px，2560×1440 为 1.6×且左右余量 128px；1400×860 与 1280×800 的普通窗口保持 1×，不是第二套桌面设计。
 3. 逻辑画布在 1920×1080 和 2560×1440 归一化后保持同一内容与相对布局；指针命中、焦点、导航和对话框随同一倍率缩放；1400×860 与 1280×800 均保留 13px 可读控件、可用主动作且没有水平裁切。
 4. F005 AppShell 有图标导航、最近查看、帮助与账号脚；调试控制在产品壳外；Workspace 二级导航与“草稿已保存”在壳内可见，每张 Agent 卡的 Skill 数量均与其勾选授权一致。
-5. 账号、模型、Skill 与 MCP 共用壳内全局二级导航；模型和 Skill 是可独立抵达的产品页。
-6. S01 保持在 Agent 团队配置面，呈现 Main 与 Child 1 的真实空占位、零隐式模型/Skill 与不可用的 Apply。
-7. 正常 S04 的所有 Agent 都为就绪且 Apply 可用；legacy-lint 仅在独立的 Child 1 可撤销失效授权状态中显示。
-8. 切主题与刷新都保留选中的 Child，且主题动作的模拟业务写入为零。
-9. 修改 Child 2 只产生一次 fixture 草稿写入；Main 和另一 Workspace 的 sentinel 不变。
-10. M2 409 → M3 本地编辑 → 重试依次得到 `M2(409)`、`M2(200)`、`M3(200)`；冲突中没有额外 PUT，也没有 activation 请求，且产品壳内不显示这些技术标签或模拟事件日志。
-11. 生效版本面为只读，没有 Apply；Child 2 的生效基线和模型/Skill 草稿差异相互对应，并提供返回团队编辑入口。
-12. 取消生命周期确认会关闭具名弹窗、把焦点返还原操作行，并产生零 fixture 业务写入。
-13. 原生 button/input/select/dialog 可获得键盘焦点；Escape 能关闭影响确认弹窗而不形成焦点陷阱。
+5. S04 用文档滚动而非固定舞台裁切：滚轮和 End 键均可抵达最后一项 Skill 授权与帮助/账号脚，末项 checkbox 仍可点击。
+6. 账号、模型、Skill 与 MCP 共用壳内全局二级导航；模型和 Skill 是可独立抵达的产品页。
+7. S01 保持在 Agent 团队配置面，呈现 Main 与 Child 1 的真实空占位、零隐式模型/Skill 与不可用的 Apply。
+8. 正常 S04 的所有 Agent 都为就绪且 Apply 可用；名单为 320px 逻辑宽度，Apply 邻近完整作用范围；legacy-lint 仅在独立的 Child 1 可撤销失效授权状态中显示。
+9. 切主题与刷新都保留选中的 Child，且主题动作的模拟业务写入为零。
+10. 修改 Child 2 只产生一次 fixture 草稿写入；Main 和另一 Workspace 的 sentinel 不变。
+11. M2 409 → M3 本地编辑 → 重试依次得到 `M2(409)`、`M2(200)`、`M3(200)`，随后清除阻断横幅并回到可编辑、Apply 可用的团队页；采用服务器草稿会先明示丢弃 M3、清除冲突且不增加业务写入。
+12. 生效版本面为只读，没有 Apply；从正常团队入口进入并返回后，保留 Child 2 选择和滚动位置、团队页仍可编辑，且全程零业务写入。
+13. 取消生命周期确认会关闭具名弹窗、把焦点返还原操作行，并产生零 fixture 业务写入。
+14. 原生 button/input/select/dialog 可获得键盘焦点；Escape 能关闭影响确认弹窗而不形成焦点陷阱。
 
 复现（替换为本机 Chrome 绝对路径）：
 
@@ -87,7 +88,7 @@ node assets/render.mjs /absolute/path/to/Google\ Chrome
 (cd assets && shasum -a 256 -c SHA256SUMS)
 ```
 
-[SHA256SUMS](assets/SHA256SUMS) 绑定 `prototype.html` 与本次 23 张原型截图；before 图单独标识为当前 main 的隔离宿主证据，不与原型效果图混作同一渲染源。
+[SHA256SUMS](assets/SHA256SUMS) 绑定 `prototype.html` 与本次 25 张原型截图；before 图单独标识为当前 main 的隔离宿主证据，不与原型效果图混作同一渲染源。
 
 ## 明确限制
 
